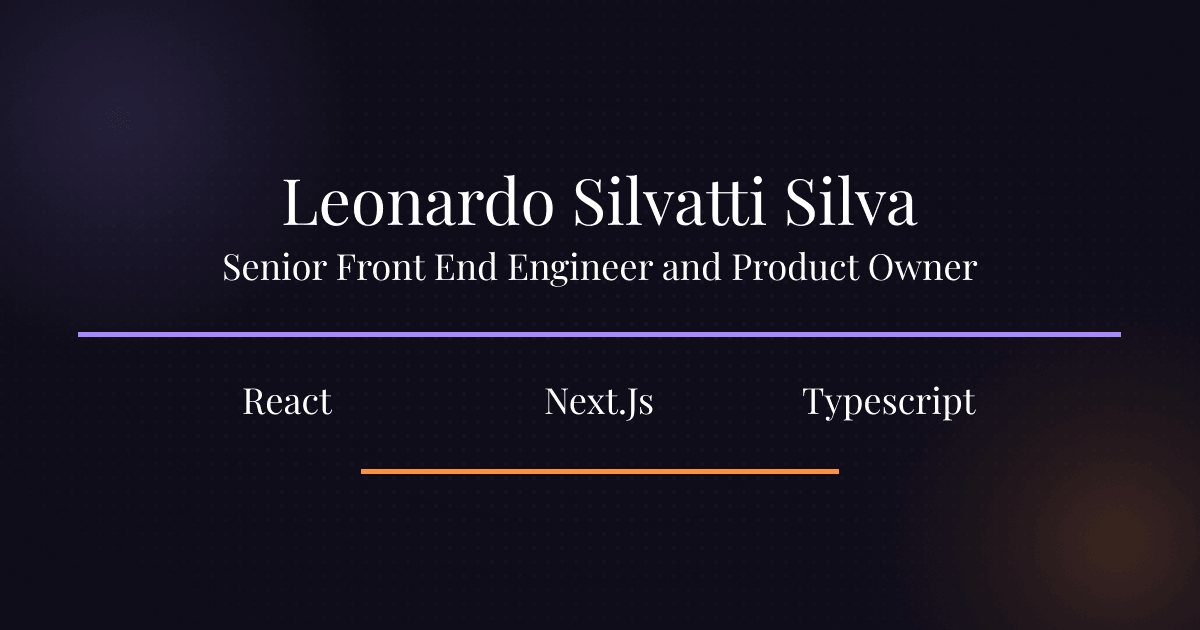
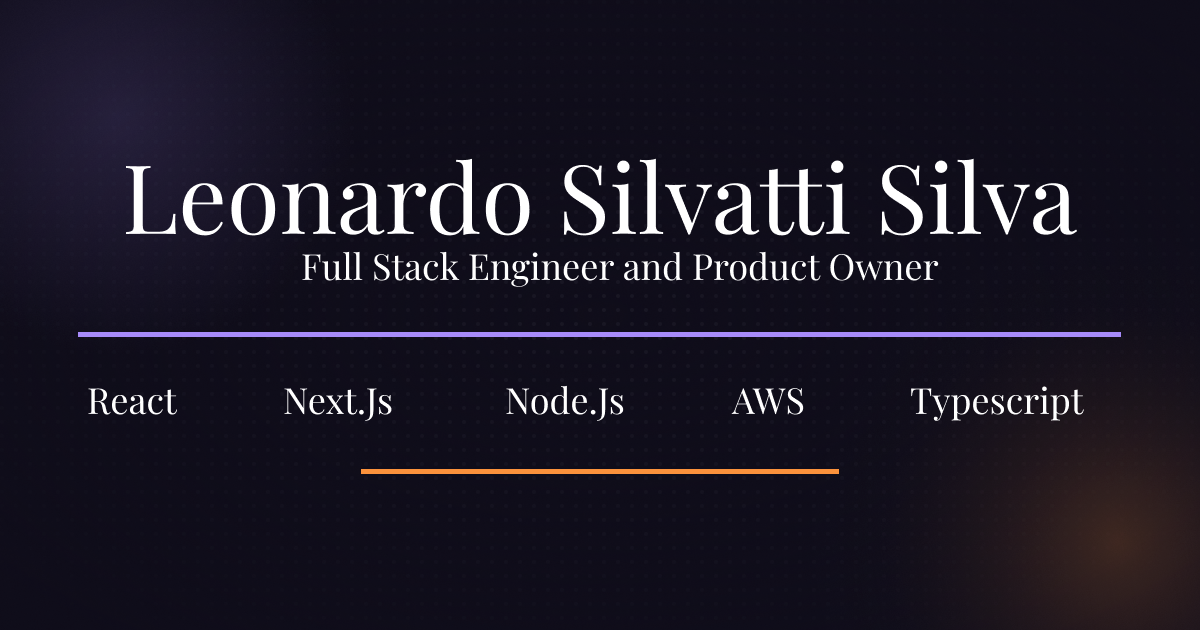
feat: update layout to include Node.js and Full Stack Development in skills

diff --git a/app/[locale]/layout.tsx b/app/[locale]/layout.tsx
@@ -177,7 +177,8 @@ return (
                 "Next.js",
                 "TypeScript",
                 "JavaScript",
-                "Frontend Development",
+                "Node.js",
+                "Full Stack Development",
               ],
             }),
           }}
